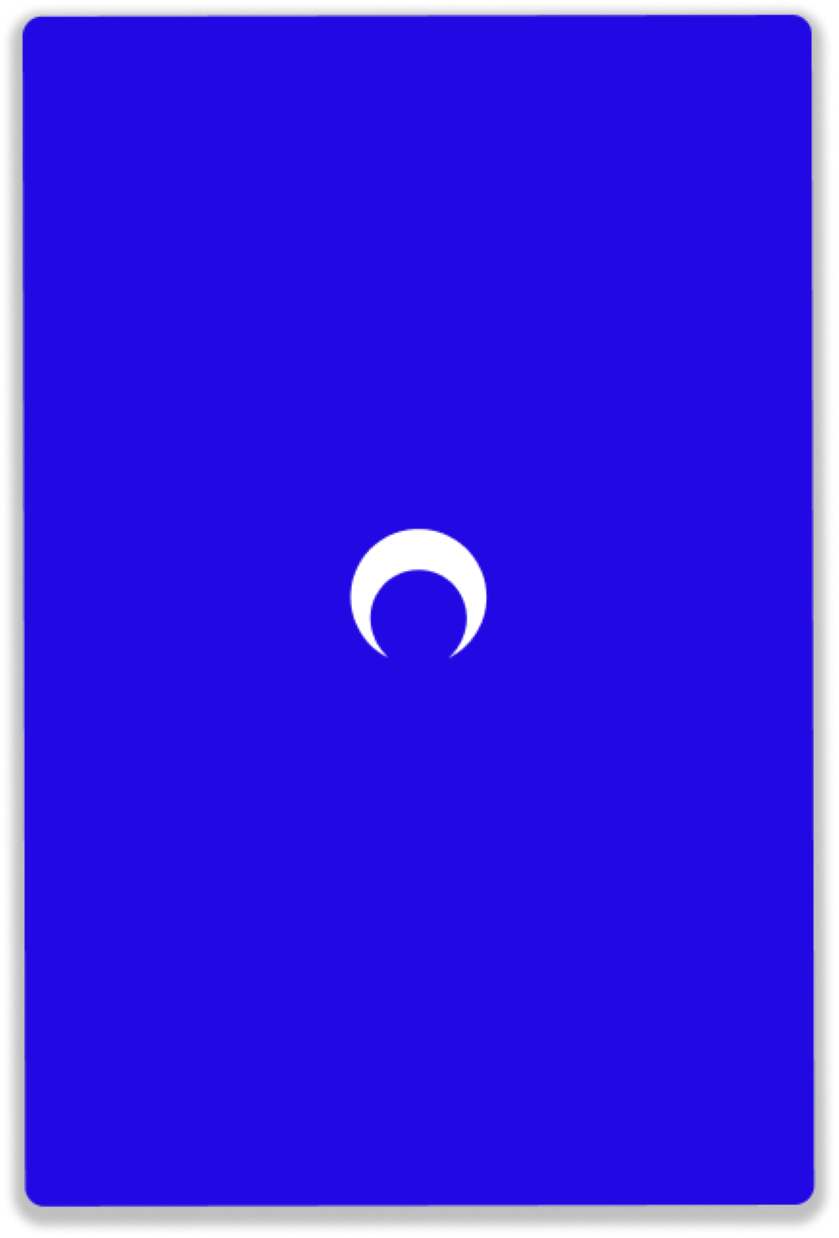
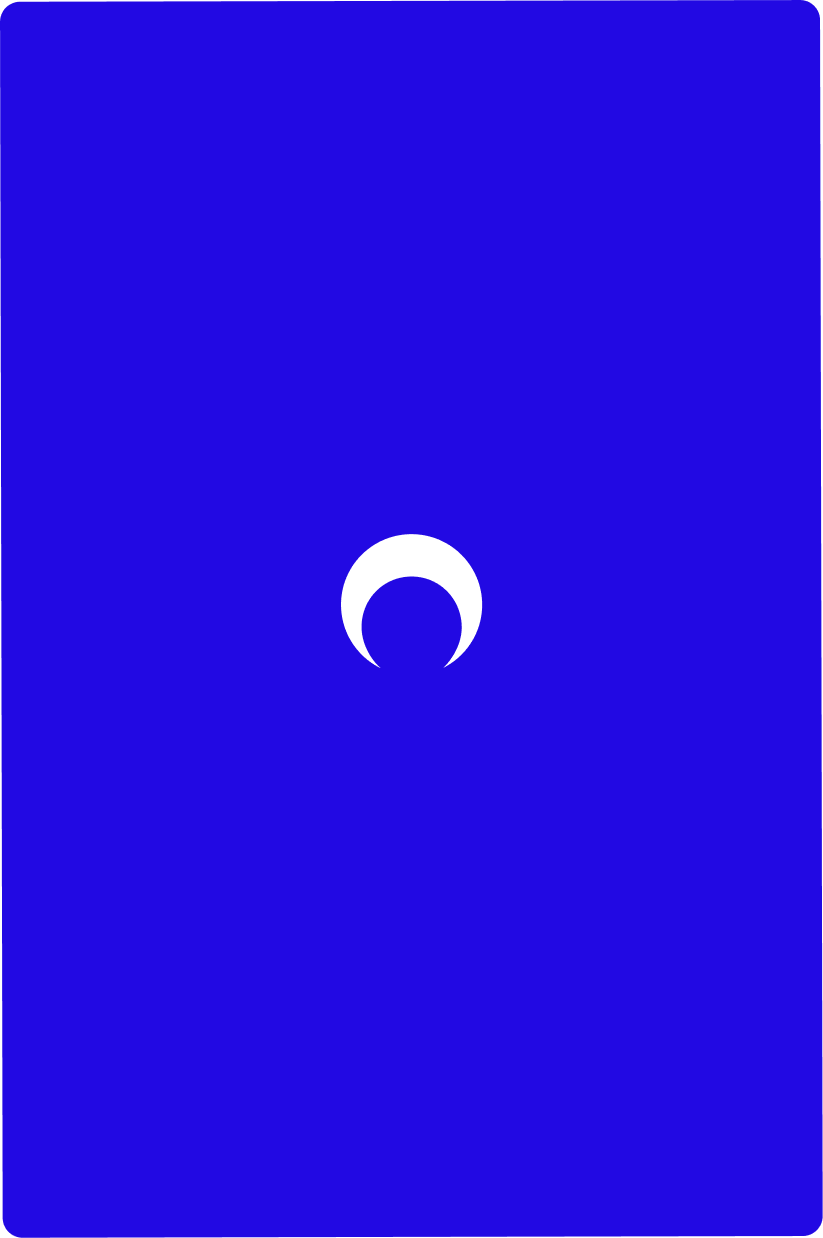
0630 미완성

diff --git a/css/core_values.css b/css/core_values.css
@@ -99,15 +99,17 @@ div#coreValues_contents_card>span{
   width: 410px;
   height: 618px; 
   margin:0px auto; 
+  margin-top: 300px;
   border-radius: 10px;  
   background-color: #2209e3;
   box-shadow: 0px 4px 6px 6px rgba(0,0,0,0.25);
-  position: relative;
+  /* position: absolute;
   top: 150px;
-  left: 0px;
+  left: 50%;
+  margin-left: 205px; */
   z-index: 999;
   transform-style: preserve-3d;
-  transition: all 2s;
+  transition: all 1s ease-out;
   backface-visibility: hidden;
   
 }
@@ -115,6 +117,7 @@ div#coreValues_contents_card>span{
 
 div#coreValues_contents_card>span>a>img{
   width: 100%;
+  /* position: absolute; */
 }
 
 div#coreValues_contents_card_back{
@@ -133,21 +136,24 @@ div#coreValues_contents_card_back{
 div#coreValues_contents_card_back>span{
   width: 410px;
   height: 618px; 
-  object-fit: contain;
+  /* object-fit: contain; */
   margin:0px auto; 
+  margin-top: 300px;
   border-radius: 10px;  
   background-color: #2209e3;
-  box-shadow: 0px 4px 6px 6px rgba(0,0,0,0.25);
-  position: relative;
+  /* background-color:red; */
+  /* box-shadow: 0px 4px 6px 6px rgba(0,0,0,0.25); */
+  /* position: absolute;
   top: 150px;
-  left: 0px;
+  left: 0px; */
   transform-style: preserve-3d;
-  transition: all 2s;
+  transition: all 1s ease-out;
   /* backface-visibility: hidden; */
 
 }
 
 div#coreValues_contents_card_back>span>a>img{
+  /* position: absolute; */
   width: 100%;
   
 }
@@ -223,4 +229,13 @@ p.core_values_point_text{
     transform: rotate(0deg);
   }
 } */
+
+@keyframes card_ani{
+  0%{
+    backface-visibility: visible;
+  }
+  100%{
+    backface-visibility: hidden;
+  }
+}
 

diff --git a/js/corevalues.js b/js/corevalues.js
@@ -3,18 +3,21 @@ document.addEventListener("DOMContentLoaded",()=>{
     const card2 = document.querySelector("#coreValues_contents_card_back>span");
     // const star = document.querySelector("#core_values_star>img");
     card.addEventListener("mouseenter", cardHover);
-    card2.addEventListener("mouseenter", cardHover2);
-
+    // card2.addEventListener("mouseenter", cardHover);
+    
     function cardHover(event){
-    const flip = event.currentTarget;
-    flip.style.transform = "rotateY(180deg)";
+        const flip = event.currentTarget;
+        card2.addEventListener("mouseover", cardHover);
+
+        flip.style.transform = "rotateY(180deg)";
     }
     
     function cardHover2(event){
     const flip = event.currentTarget;
-    flip.style.transform = "rotateY(-180deg)";
+    flip.style.transform = "rotateY(180deg)";
     }
 
+    
     // core_values_star.animate({
     //     transform: ['left: 720px', 'left: 1580px']
     // }, {
